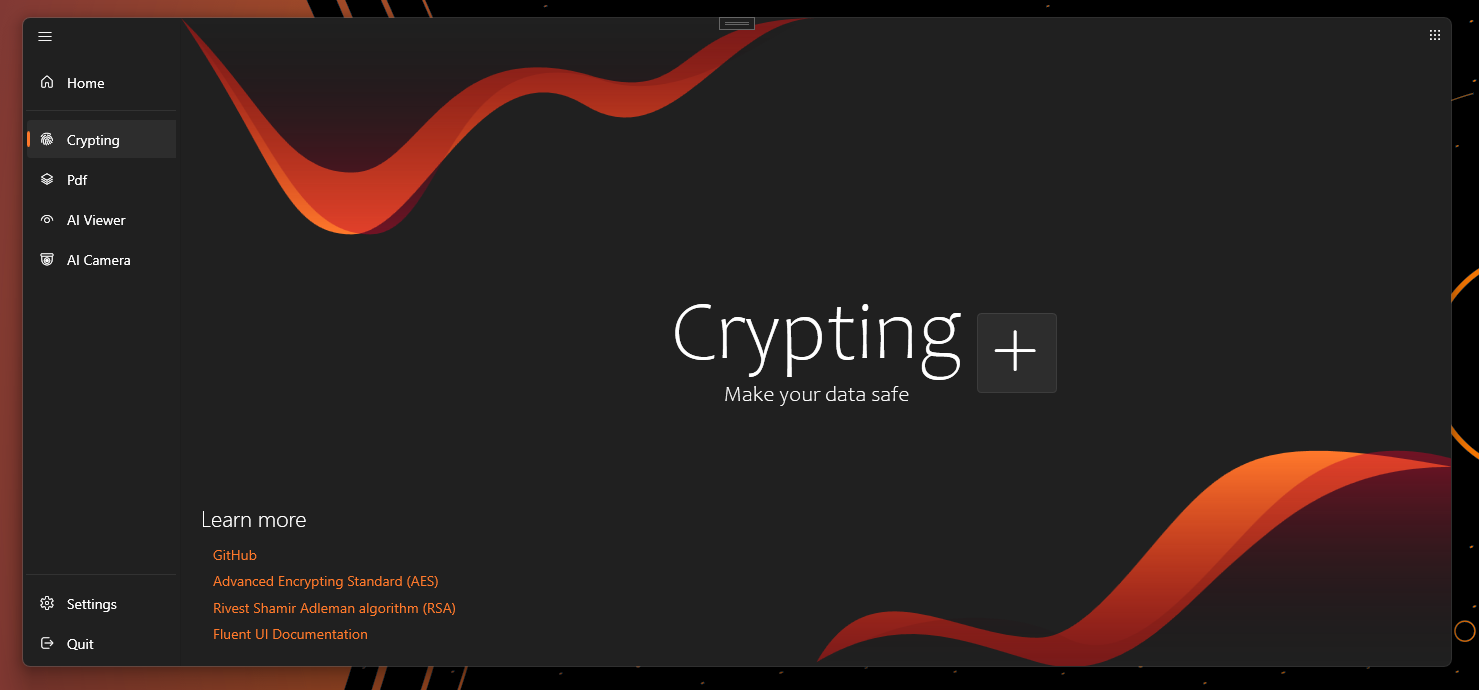
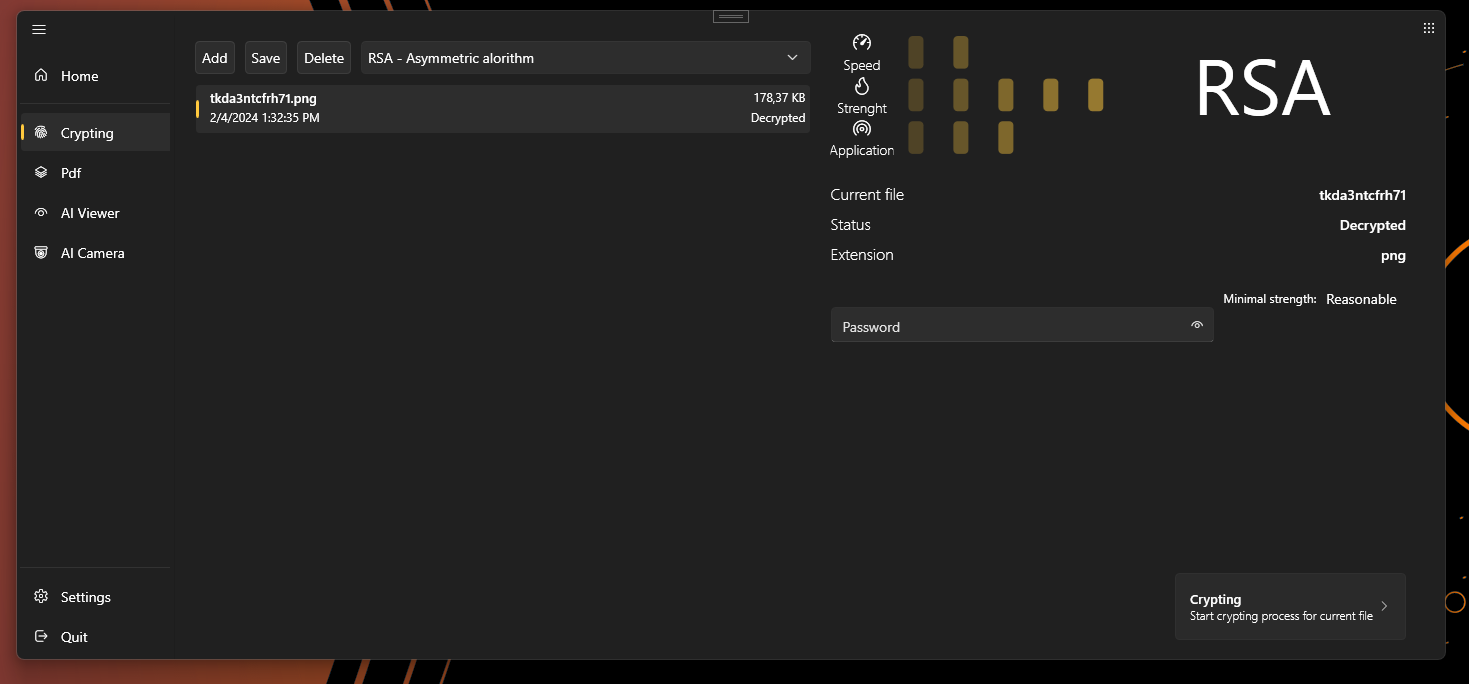
Add - Complete migrationto WPFui

diff --git a/CrytonCoreNext/Crypting/Views/AESView.xaml b/CrytonCoreNext/Crypting/Views/AESView.xaml
@@ -6,6 +6,7 @@
       xmlns:viewmodels="clr-namespace:CrytonCoreNext.Crypting.ViewModels"
       d:DataContext="{d:DesignInstance Type=viewmodels:AESViewModel}"
       Background="{DynamicResource ApplicationBackgroundBrush}"
+      Foreground="{DynamicResource TextFillColorPrimaryBrush}"
       xmlns:ui="http://schemas.lepo.co/wpfui/2022/xaml"
       xmlns:components="clr-namespace:CrytonCoreNext.Controls"
       xmlns:c="clr-namespace:CrytonCoreNext.Converters"
@@ -18,10 +19,7 @@
     <Page.Resources>
         <ResourceDictionary> 
             <c:BoolToVisibilityConverter x:Key="BoolToVisibilityConverter" />
-            <c:BoolToVisibilityInversionConverter x:Key="BoolToVisibilityInversionConverter" />
-            <ResourceDictionary.MergedDictionaries>
-                <ui:ThemesDictionary Theme="Dark" />
-            </ResourceDictionary.MergedDictionaries>
+            <c:BoolToVisibilityInversionConverter x:Key="BoolToVisibilityInversionConverter" /> 
         </ResourceDictionary>
     </Page.Resources>
 

diff --git a/CrytonCoreNext/Crypting/Views/RSAView.xaml b/CrytonCoreNext/Crypting/Views/RSAView.xaml
@@ -7,6 +7,7 @@
       d:DataContext="{d:DesignInstance Type=viewmodels:RSAViewModel}"
       xmlns:ui="http://schemas.lepo.co/wpfui/2022/xaml"
       Background="{DynamicResource ApplicationBackgroundBrush}"
+      Foreground="{DynamicResource TextFillColorPrimaryBrush}"
       xmlns:c="clr-namespace:CrytonCoreNext.Converters"
       xmlns:components="clr-namespace:CrytonCoreNext.Controls"
       mc:Ignorable="d"

diff --git a/CrytonCoreNext/Views/SettingsView.xaml.cs b/CrytonCoreNext/Views/SettingsView.xaml.cs
@@ -3,6 +3,8 @@ using CrytonCoreNext.ViewModels;
 using System.Collections.Generic;
 using System.Linq;
 using System.Windows;
+using System.Windows.Controls;
+using System.Windows.Media;
 using Wpf.Ui.Controls;
 using TextBlock = System.Windows.Controls.TextBlock;
 
@@ -42,6 +44,8 @@ namespace CrytonCoreNext.Views
             _firstHeaderHeight = firstHeader.ActualHeight;
             LoadHeadersSymbols();
             var headers = VisualHelper.FindVisualChilds<TextBlock>(stackPanel, false).ToList();
+            ScrollViewer scrollViewer = GetScrollViewer(stackPanel);
+            var verticalPositionByCard = new Dictionary<int, (CardControl card, bool hasHeader, double height, string text, SymbolRegular symbol)>();
             foreach (var cardControl in VisualHelper.FindVisualChilds<CardControl>(stackPanel, false))
             {
                 if (cardControl.Icon is SymbolIcon icon)
@@ -49,7 +53,9 @@ namespace CrytonCoreNext.Views
                     var hasHeader = _symbolBySymbolWithHeader.ContainsKey(icon.Symbol);
                     var headerText = hasHeader ? headers[_symbolBySymbolWithHeader.Keys.ToList().IndexOf(icon.Symbol)].Text : "";
                     var symbol = hasHeader ? _symbolBySymbolWithHeader[icon.Symbol] : icon.Symbol;
-                    ViewModel.RegisterNewUiNavigableElement(cardControl, hasHeader, _firstHeaderHeight, headerText, symbol);
+                    var transform = cardControl.TransformToVisual(scrollViewer);
+                    var positionInScrollViewer = transform.Transform(new Point(0, 0));
+                    verticalPositionByCard.Add((int)positionInScrollViewer.Y, (cardControl, hasHeader, _firstHeaderHeight, headerText, symbol));
                 }
             }
             foreach (var cardExpander in VisualHelper.FindVisualChilds<CardExpander>(stackPanel, false))
@@ -59,18 +65,36 @@ namespace CrytonCoreNext.Views
                     var hasHeader = _symbolBySymbolWithHeader.ContainsKey(icon.Symbol);
                     var headerText = hasHeader ? headers[_symbolBySymbolWithHeader.Keys.ToList().IndexOf(icon.Symbol)].Text : "";
                     var symbol = hasHeader ? _symbolBySymbolWithHeader[icon.Symbol] : icon.Symbol;
-                    ViewModel.RegisterNewUiNavigableElement(
-                        new CardControl()
-                        {
-                            Icon = icon,
-                            Header = new TextBlock() { Text = "" }
-                        },
-                        hasHeader,
-                        _firstHeaderHeight,
-                        headerText,
-                        symbol);
+                    var cardControl = new CardControl
+                    {
+                        Icon = icon,
+                        Header = (cardExpander.Header as Grid).Children[1]
+                    };
+
+                    var transform = cardExpander.TransformToVisual(scrollViewer);
+                    var positionInScrollViewer = transform.Transform(new Point(0, 0));
+                    verticalPositionByCard.Add((int)positionInScrollViewer.Y, (cardControl, hasHeader, _firstHeaderHeight, headerText, symbol));
                 }
             }
+            foreach (var card in verticalPositionByCard.OrderBy(x => x.Key))
+            {
+                ViewModel.RegisterNewUiNavigableElement(card.Value.card, card.Value.hasHeader, card.Value.height, card.Value.text, card.Value.symbol);
+            }
+        }
+
+        public static ScrollViewer GetScrollViewer(DependencyObject depObj)
+        {
+            var obj = depObj as ScrollViewer;
+            if (obj != null) return obj;
+
+            for (int i = 0; i < VisualTreeHelper.GetChildrenCount(depObj); i++)
+            {
+                var child = VisualTreeHelper.GetChild(depObj, i);
+
+                var result = GetScrollViewer(child);
+                if (result != null) return result;
+            }
+            return null;
         }
 
         private void LoadHeadersSymbols()
@@ -87,6 +111,14 @@ namespace CrytonCoreNext.Views
             if (e.Source is CardControl card)
             {
                 ViewModel.UpdateSelectedTreeViewItem(card);
+            }
+            if (e.Source is CardExpander cardExpander)
+            {
+                var cardControl = new CardControl
+                {
+                    Icon = cardExpander.Icon
+                };
+                ViewModel.UpdateSelectedTreeViewItem(cardControl);
             }
         }
     }

diff --git a/CrytonCoreNext/ViewModels/SettingsViewModel.cs b/CrytonCoreNext/ViewModels/SettingsViewModel.cs
@@ -1,7 +1,6 @@
 using CommunityToolkit.Mvvm.ComponentModel;
 using CommunityToolkit.Mvvm.Input;
 using CrytonCoreNext.Abstract;
-using CrytonCoreNext.Helpers;
 using CrytonCoreNext.Models;
 using System;
 using System.Collections.Generic;
@@ -153,14 +152,25 @@ namespace CrytonCoreNext.ViewModels
 
         public void UpdateSelectedTreeViewItem(CardControl card)
         {
-            var newSelectedItem = _cardByTreeViewItem.First(c => c.Value == card).Key;
-            if (newSelectedItem.Childs != null)
+            try
             {
-                newSelectedItem = newSelectedItem.Childs[0];
+                var newSelectedItem = _cardByTreeViewItem.First(c => c.Value.Icon == card.Icon).Key;
+                if (newSelectedItem == null)
+                {
+                    return;
+                };
+                if (newSelectedItem.Childs != null)
+                {
+                    newSelectedItem = newSelectedItem.Childs[0];
+                }
+                _lockTreeViewItem = true;
+                SelectedTreeViewItem = newSelectedItem;
+                _lockTreeViewItem = false;
             }
-            _lockTreeViewItem = true;
-            SelectedTreeViewItem = newSelectedItem;
-            _lockTreeViewItem = false;
+            catch (Exception)
+            {
+                return;
+            }
         }
 
         public void SetVerticalScrollUpdateFunction(Action<double> update)
@@ -235,10 +245,10 @@ namespace CrytonCoreNext.ViewModels
                 TreeViewItemSource.Add(newTreeViewItem);
                 _cardByTreeViewItem.Add(newTreeViewItem, card);
             }
-            var t = VisualHelper.FindVisualChilds<System.Windows.Controls.TextBlock>(card.Header as StackPanel, true);
+            var title = ((card.Header as StackPanel)!.Children[0] as System.Windows.Controls.TextBlock)!.Text;
             var newSubTreeViewItem = new TreeViewItemModel()
             {
-                Title = ((card.Header as StackPanel)!.Children[0] as System.Windows.Controls.TextBlock)!.Text,
+                Title = title,
                 IsExpanded = true,
                 Symbol = mainItemSymbol
             };
